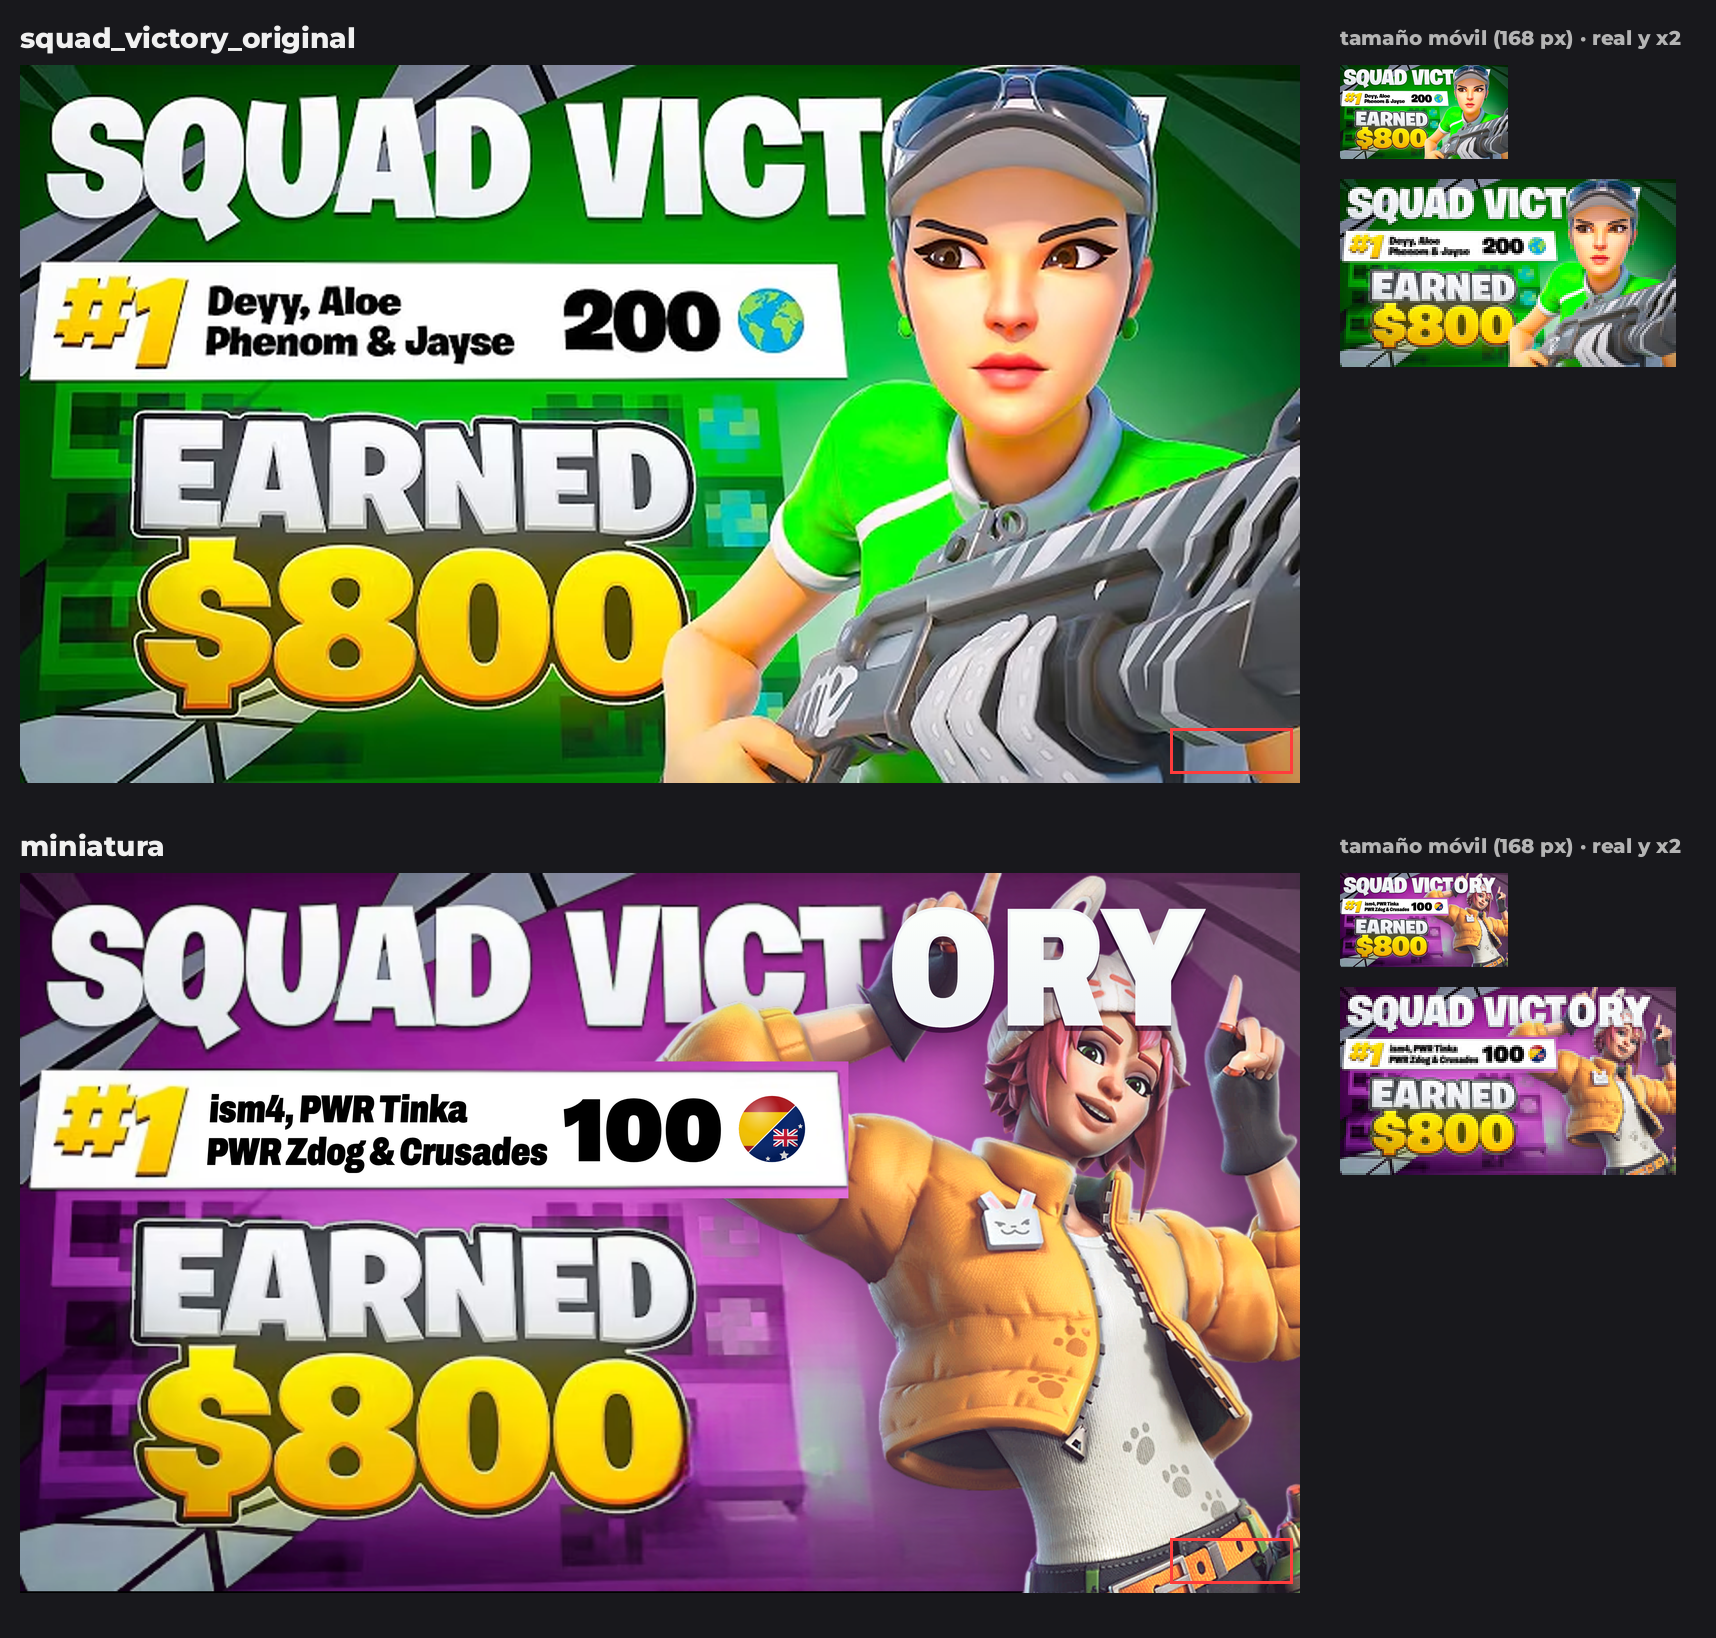
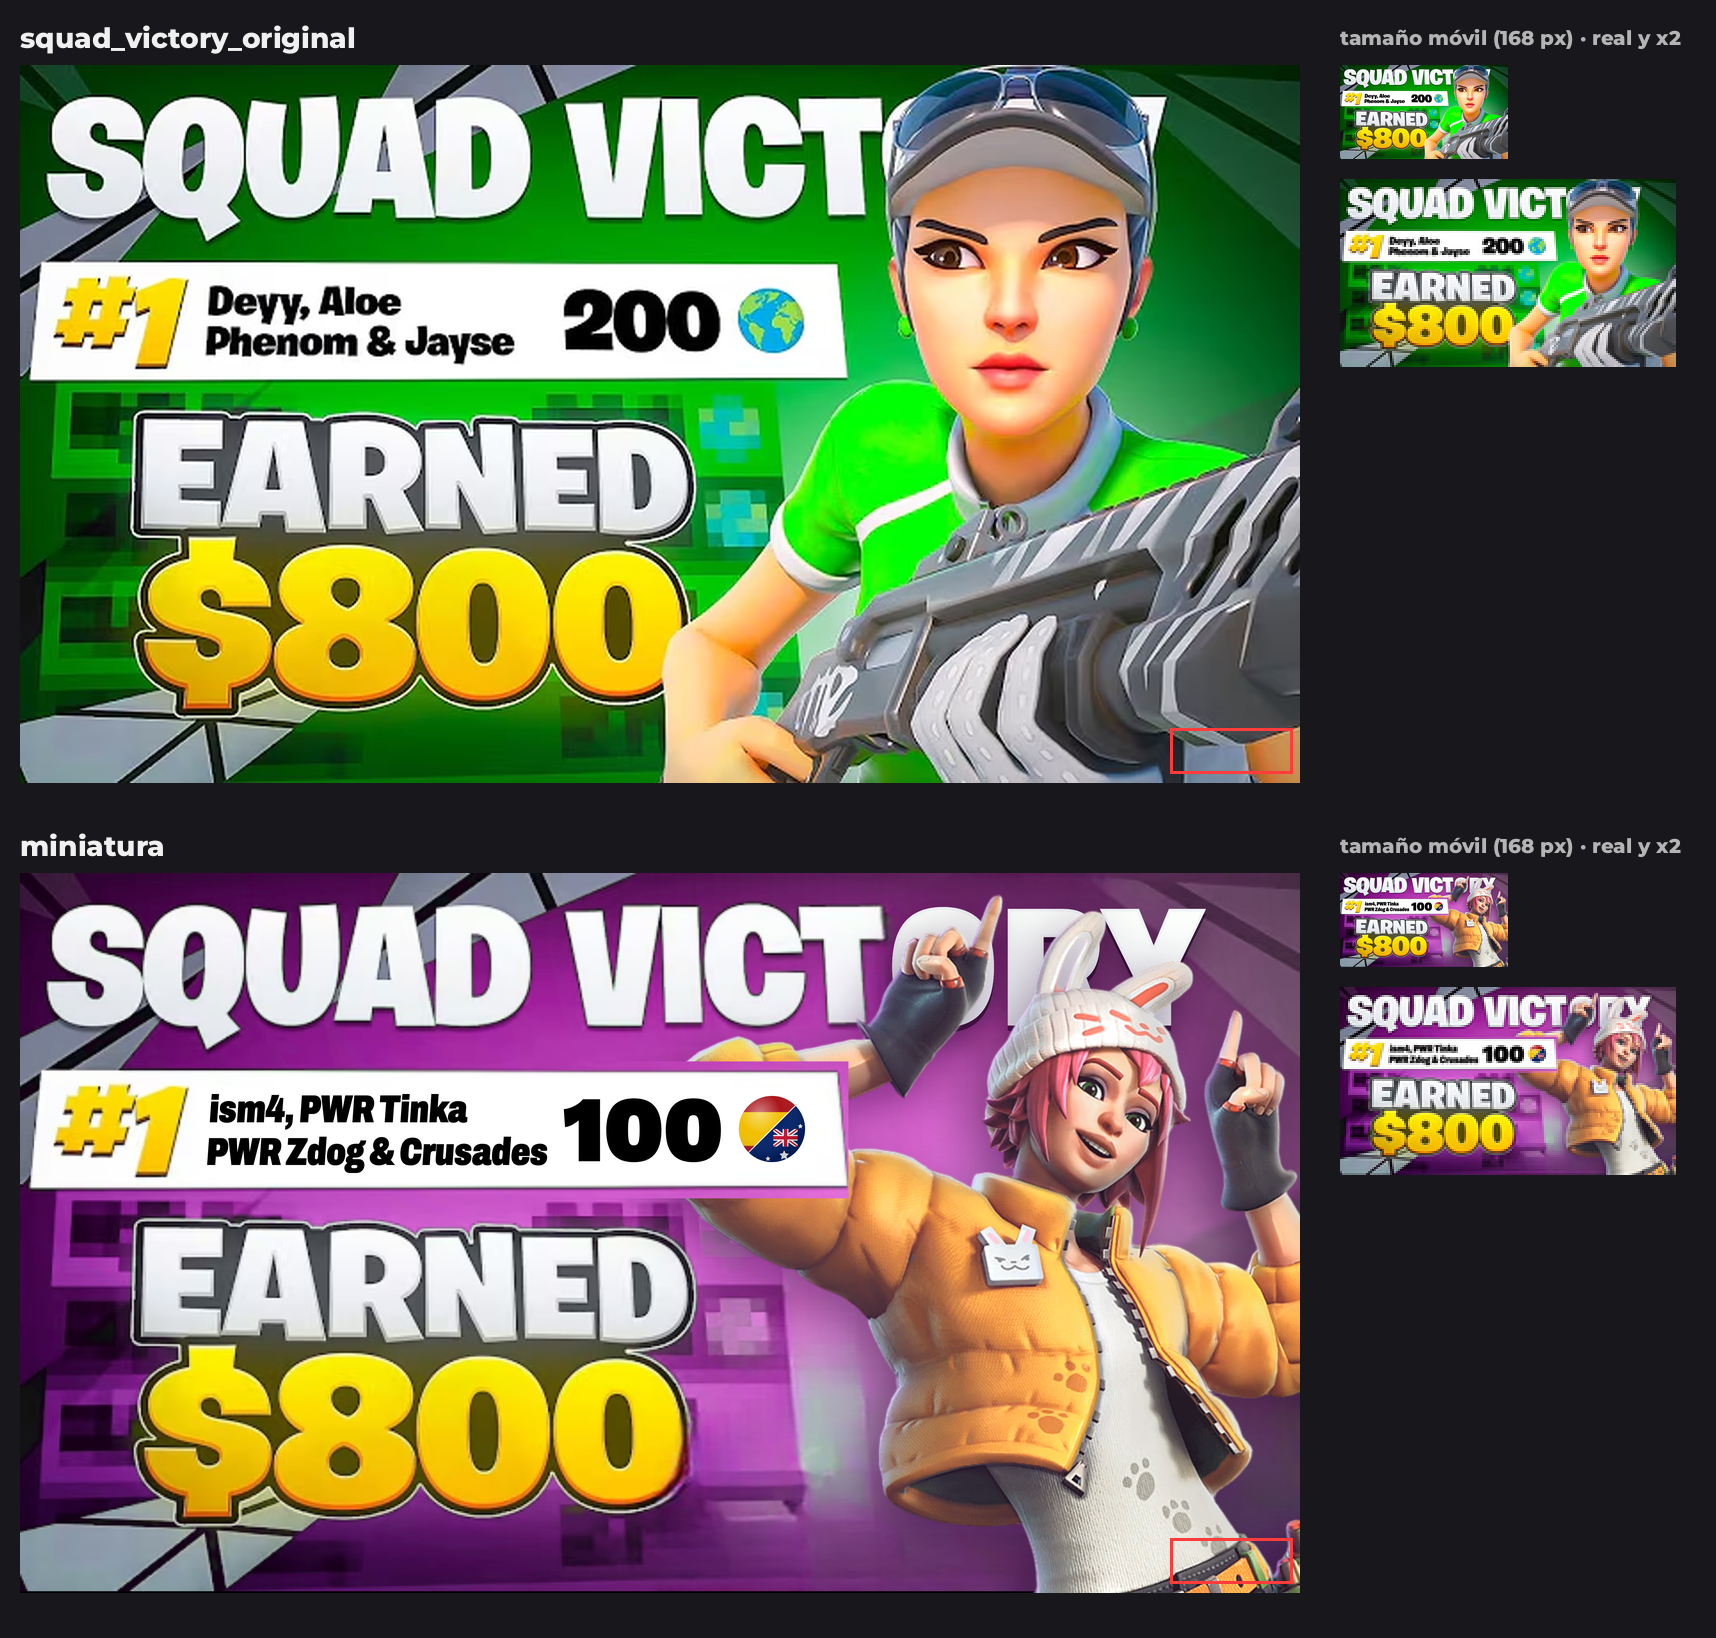
Squad Victory: skin por delante de las letras ORY
Claude-Session: https://claude.ai/code/session_01Q54DXVH7GopsR3mpjPBNRA

Changed region(s): [[0.3706, 0.5293, 0.7721, 0.9963], [0.8648, 0.5916, 0.9883, 0.7161], [0.8339, 0.5293, 0.8957, 0.5916]]

diff --git a/miniaturero/salida/2026-11-10_squad-victory/proyecto/miniatura.html b/miniaturero/salida/2026-11-10_squad-victory/proyecto/miniatura.html
@@ -13,14 +13,14 @@
     background: url("img/base_sin_personaje.png") 0 0 / 720px 404px no-repeat; }
 
   /* ====== textos: nombres en Archivo 900 inclinada 4° (como el original), número en Work Sans 900 recto ====== */
-  /* letras "ORY" de VICTORY: por delante de la skin para que el título se lea entero */
+  /* letras "ORY" de VICTORY: detrás de la skin, como en el original */
   .ory { position: absolute; left: var(--ory-x, 488px); top: var(--ory-y, 7.5px); font-family: "Archivo"; font-weight: 900;
     font-stretch: var(--ory-ancho, 78%); font-size: var(--ory-tam, 93px); line-height: 1; letter-spacing: var(--ory-esp, 1px);
     background: linear-gradient(180deg, #fbfefb 20%, #eef2f6 85%); -webkit-background-clip: text; background-clip: text; color: transparent; -webkit-text-stroke: 1.6px #f3f6f8;
     filter: drop-shadow(0 3px 0 rgba(25,0,30,.6)) drop-shadow(0 6px 8px rgba(25,0,30,.35)); }
 
   /* skin nueva (imagen aportada por el usuario) y la tarjeta del #1 por delante, como en el original */
-  .skin { position: absolute; left: var(--skin-x, 350px); top: var(--skin-y, -8px); height: var(--skin-alto, 440px);
+  .skin { position: absolute; left: var(--skin-x, 350px); top: var(--skin-y, 12px); height: var(--skin-alto, 440px);
     filter: drop-shadow(-6px 8px 14px rgba(40,0,50,.45)); }
   .tarjeta { position: absolute; left: 8px; top: 106px; width: 458px; height: 77px; }
 
@@ -37,8 +37,8 @@
 </head>
 <body>
 <div class="lienzo">
-  <img class="skin" src="img/skin_nueva_iluminada.png" alt="">
   <div class="ory">ORY</div>
+  <img class="skin" src="img/skin_nueva_iluminada.png" alt="">
   <img class="tarjeta" src="img/capa_tarjeta.png" alt="">
   <div class="nombres">ism4, PWR Tinka<br>PWR Zdog <span class="amp">&amp;</span> Crusades</div>
   <div class="puntos">100</div>

diff --git a/miniaturero/salida/2026-11-10_squad-victory/notas.md b/miniaturero/salida/2026-11-10_squad-victory/notas.md
@@ -15,7 +15,7 @@
 - **Fondo (10/11):** el verde del fondo pasa al morado/magenta de la clasificación del torneo (`entrada/clasificacion_squads.webp`): morado (111,33,112) a la izquierda, más oscuro abajo y magenta claro hacia la derecha. Script `proyecto/recolorear_fondo.py`: solo cambia verdes y turquesas fuera del personaje (máscara con BiRefNet), conserva luces, sombras y los cuadros pixelados. No se toca nada más: textos, personaje (camiseta y pendientes siguen verdes), "#1", "$800" y bandera iguales. Revisión: 1) quedaba un filo verde alrededor del personaje y los cuadros turquesa → máscara sin margen y rango de tonos ampliado; 2) OK.
 - **Cambio de skin (10/11):** no se genera un render nuevo (no hay modelo 3D y no se recrean personajes con derechos); se usa la imagen de la skin que aporta el usuario (`entrada/skin_nueva.webp`). Pasos (`proyecto/cambiar_skin.py`): máscara de la skin verde → relleno con LaMa → la tarjeta del #1 se separa en una capa (`capa_tarjeta.png`) para que vaya por delante, como en el original → skin nueva recortada con BiRefNet e iluminada en 3D (contraluz rosado por la derecha como la luz fuerte del render original, morado por la izquierda) → colocada a la derecha, sangrando por abajo y cubriendo el final de "VICTORY" igual que la gorra de la verde. La pose es la de la imagen aportada.
 - **Luz de la skin nueva (v2, 10/11):** al usuario no le gustó la primera (sombras demasiado negras, colores muy saturados, contornos pintados). Ahora `proyecto/luz_como_verde.py` iguala la luz a la del render de la skin verde (`entrada/referencia_luz_skin_verde.webp`): mismo reparto de luces/sombras (luz media 60 vs 61, sombras 21 vs 21, brillos 92 vs 91), saturación algo más suave (0,39 vs 0,35), reflejo morado del fondo por la izquierda, brillo suave y nitidez. En el HTML, sombra proyectada morada suave.
-- **"ORY" de VICTORY (10/11):** en el original esas letras quedaban detrás de la gorra de la skin verde y no existían en la imagen; al cambiar la skin se notaba que faltaban. Se han rehecho con Archivo 900 (ancho 78 %), con la misma altura (66 px) y línea base que "VICT", relleno blanco con degradado gris azulado suave y sombra oscura debajo, como el resto del título. Van por delante de la skin para que "SQUAD VICTORY" se lea entero.
+- **"ORY" de VICTORY (10/11):** en el original esas letras quedaban detrás de la gorra de la skin verde y no existían en la imagen; al cambiar la skin se notaba que faltaban. Se han rehecho con Archivo 900 (ancho 78 %), con la misma altura (66 px) y línea base que "VICT", relleno blanco con degradado gris azulado suave y sombra oscura debajo, como el resto del título. Por petición del usuario, la skin va por delante de las letras (como en el original) y se ha bajado 20 px para que tape menos el título.
 - **Resolución:** el original es 720×404; se exporta a 3840×2160 pero la imagen de fondo sigue siendo la misma (algo blanda). Si tienes el archivo original a más resolución, queda más nítida.
 
 ## Archivos
